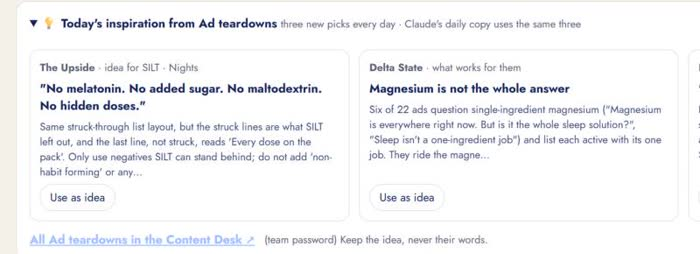
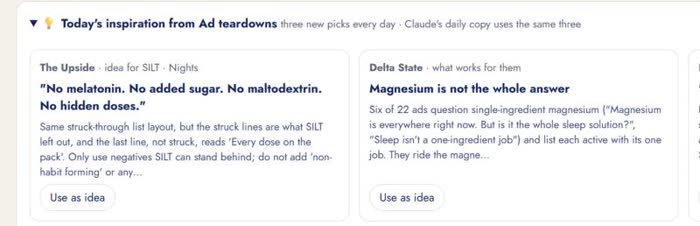
Static Engine: drop '(team password)' note; guides re-rendered

diff --git a/static-engine/web/public/index.html b/static-engine/web/public/index.html
@@ -233,7 +233,7 @@ function inspBox() {
     <div class="insprow">${xs.map((i, n) => `<div class="inspcard"><div class="sub"><b>${esc(i.brand)}</b> · ${i.kind === "idea" ? "idea for SILT" : "what works for them"}${i.product ? " · " + esc(i.product) : ""}</div>
       <h4>${esc(i.title)}</h4><p>${esc(String(i.text || "").slice(0, 220))}${String(i.text || "").length > 220 ? "…" : ""}</p>
       <button data-insp="${n}">Use as idea</button></div>`).join("")}</div>
-    <div class="row"><a href="${DESK}" target="_blank" rel="noopener">All Ad teardowns in the Content Desk ↗</a><span class="sub">(team password) Keep the idea, never their words.</span></div></details>`;
+    <div class="row"><a href="${DESK}" target="_blank" rel="noopener">All Ad teardowns in the Content Desk ↗</a><span class="sub">Keep the idea, never their words.</span></div></details>`;
 }
 function drawIdeas() {
   const q = st.q.toLowerCase();

diff --git a/static-engine/guide/ad_teardown_copy.html b/static-engine/guide/ad_teardown_copy.html
@@ -72,5 +72,5 @@
   </ul>
 </div>
 
-<footer><span>Full teardowns: Content Desk → <b>Ad teardowns</b> (silt-content-desk.pages.dev, team password). Link is under the panel.</span><span>New picks every day at midnight</span></footer>
+<footer><span>Full teardowns: Content Desk → <b>Ad teardowns</b> (silt-content-desk.pages.dev). Link is under the panel.</span><span>New picks every day at midnight</span></footer>
 </body></html>
